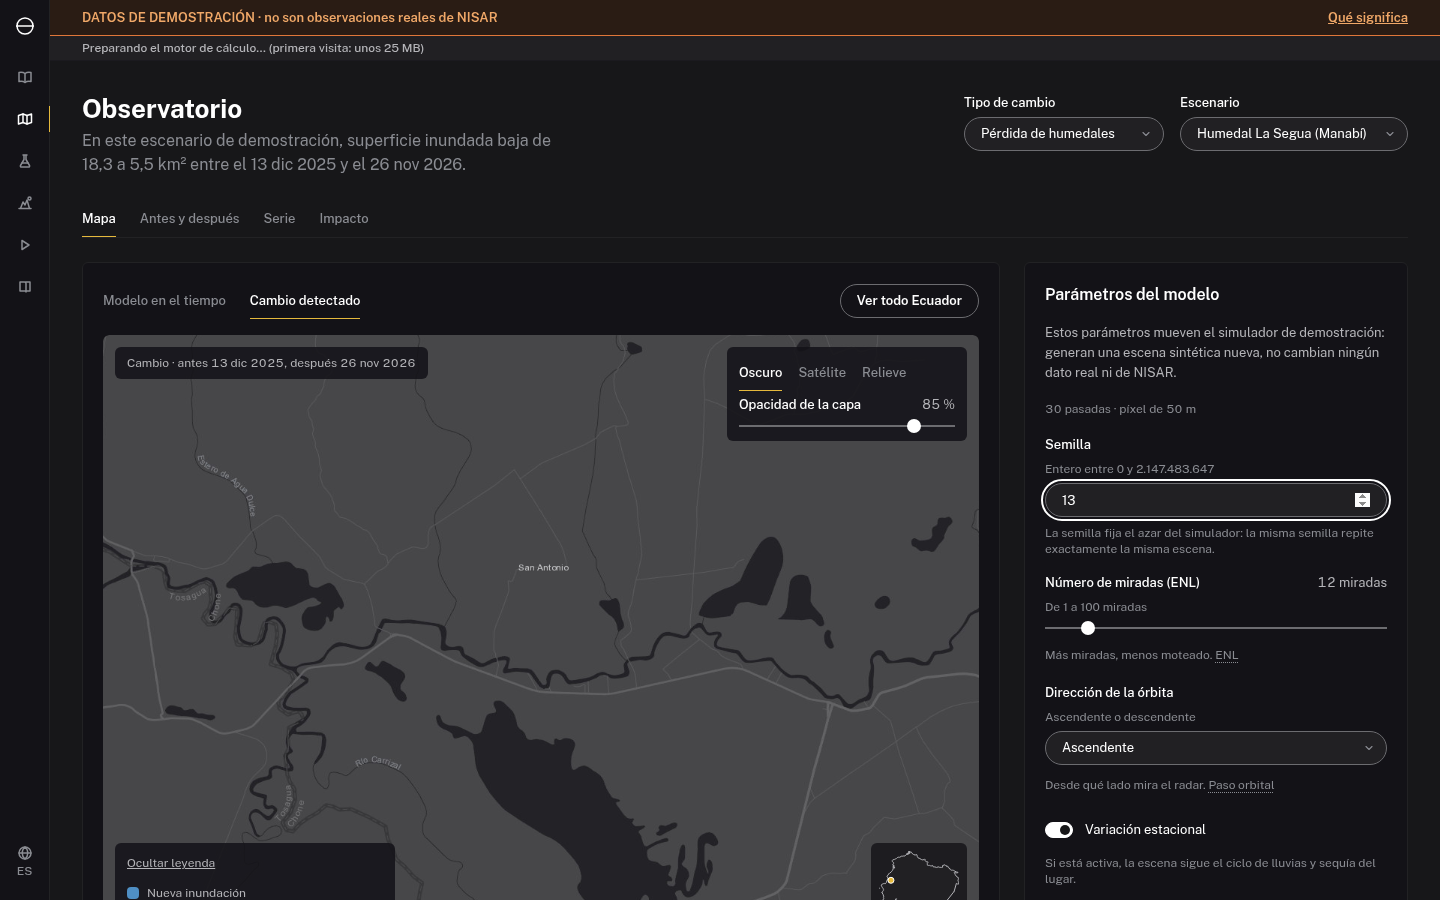
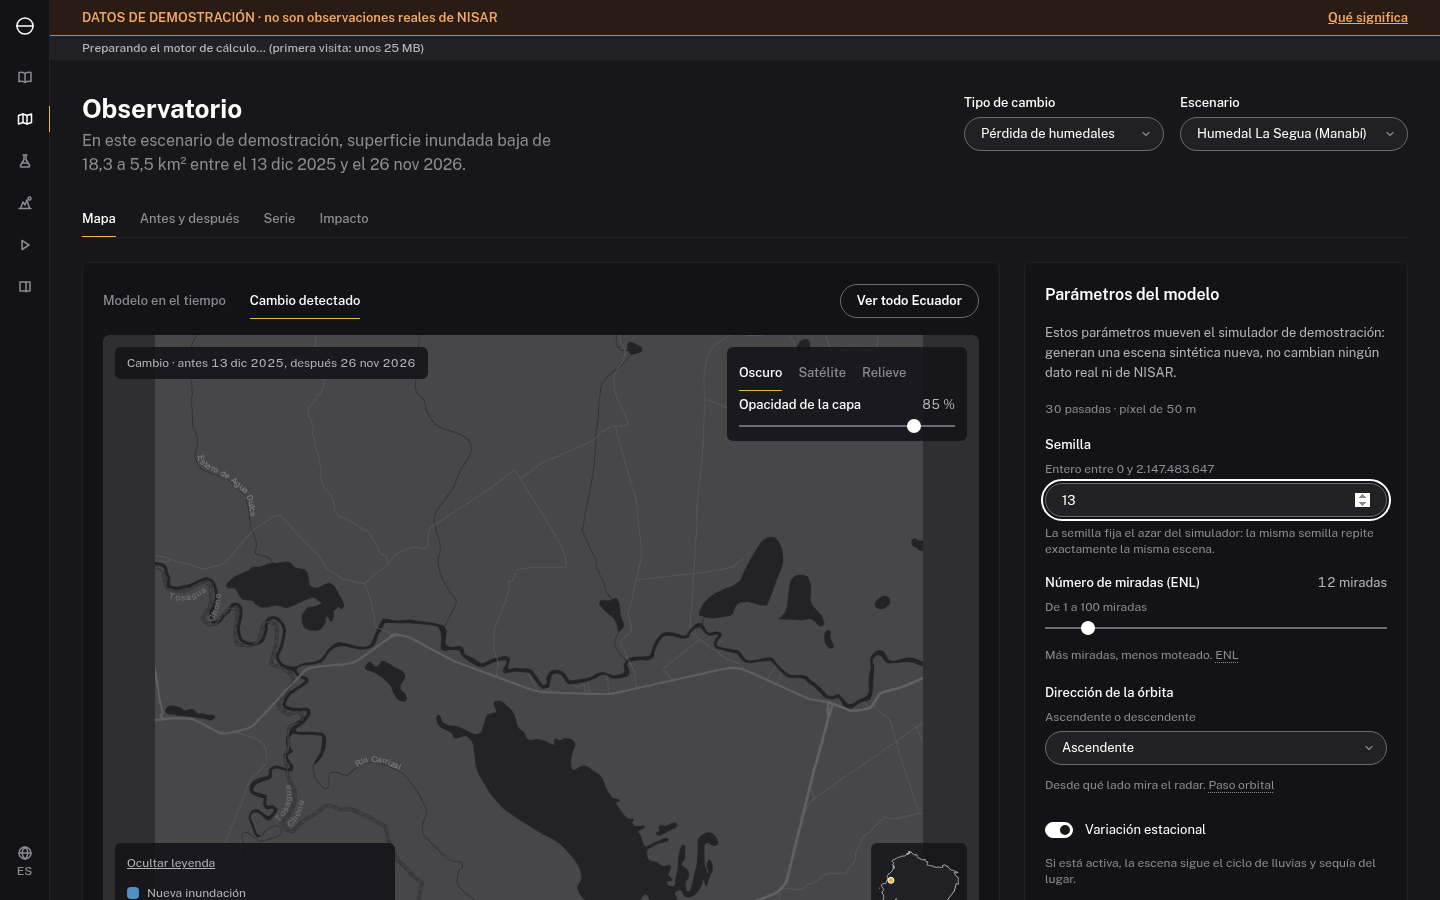
fix(despliegue): arreglos de la revisión final (SharedWorker, precálculo del reproductor, entorno.sh, errores)
- onerror del SharedWorker llega al cliente; el nombre del worker lleva el hash de la app
- el precálculo graba la capa de cada pasada del mapa y falla si faltan
- entorno.sh no aborta con nvm sin Node 22
- el motor responde un 500 genérico sin rastro de Python

Changed region(s): [[0.0625, 0.3733, 0.125, 1.0], [0.625, 0.3733, 0.6875, 1.0]]

diff --git a/frontend/src/motor/clienteMotor.ts b/frontend/src/motor/clienteMotor.ts
@@ -90,9 +90,15 @@ export function crearClienteMotor(crearPuerto: () => PuertoMotor, motorUrl: stri
 export function elegirPuerto(): PuertoMotor {
   // Vite solo empaqueta el worker si `new URL(..., import.meta.url)` va escrito dentro de la llamada.
   if (typeof SharedWorker !== 'undefined') {
-    const puerto = new SharedWorker(new URL('./motor.worker.ts', import.meta.url), { type: 'module', name: 'nisar-motor' }).port
-    puerto.start()
-    return puerto as unknown as PuertoMotor
+    // El nombre lleva el hash de la app Python: una pestaña nueva tras un despliegue no se engancha al motor
+    // (con otra app cargada) de una pestaña vieja. Los errores de carga del worker llegan al objeto SharedWorker,
+    // no a su puerto: se reenvían a `onerror` del puerto.
+    const nombre = `nisar-motor-${import.meta.env.VITE_APP_HASH ?? ''}`
+    const compartido = new SharedWorker(new URL('./motor.worker.ts', import.meta.url), /* @vite-ignore */ { type: 'module', name: nombre })
+    const puerto = compartido.port as unknown as PuertoMotor
+    compartido.onerror = (e) => puerto.onerror?.(e)
+    compartido.port.start()
+    return puerto
   }
   return new Worker(new URL('./motor.worker.ts', import.meta.url), { type: 'module' }) as unknown as PuertoMotor
 }

diff --git a/frontend/src/motor/clienteMotor.test.ts b/frontend/src/motor/clienteMotor.test.ts
@@ -88,6 +88,25 @@ describe('elegirPuerto', () => {
     expect(Dedicado).not.toHaveBeenCalled()
   })
 
+  it('el error de carga del SharedWorker llega al puerto (onerror)', () => {
+    const port = { postMessage: vi.fn(), start: vi.fn(), onmessage: null, onerror: vi.fn() }
+    const instancia: { port: typeof port; onerror: ((e: unknown) => void) | null } = { port, onerror: null }
+    vi.stubGlobal('SharedWorker', vi.fn(() => instancia))
+    vi.stubGlobal('Worker', vi.fn())
+    elegirPuerto()
+    instancia.onerror?.(new Error('404'))
+    expect(port.onerror).toHaveBeenCalledTimes(1)
+  })
+
+  it('el nombre del SharedWorker lleva el hash de la app (no se reutiliza un motor de otro despliegue)', () => {
+    vi.stubEnv('VITE_APP_HASH', 'abc123')
+    const Compartido = vi.fn(() => ({ port: { postMessage: vi.fn(), start: vi.fn(), onmessage: null } }))
+    vi.stubGlobal('SharedWorker', Compartido)
+    elegirPuerto()
+    expect((Compartido.mock.calls[0] as unknown[])[1]).toMatchObject({ name: 'nisar-motor-abc123' })
+    vi.unstubAllEnvs()
+  })
+
   it('elegirPuerto cae a Worker si no hay SharedWorker', () => {
     const w = { postMessage: vi.fn(), onmessage: null }
     const Dedicado = vi.fn(() => w)

diff --git a/frontend/src/motor/motor.worker.ts b/frontend/src/motor/motor.worker.ts
@@ -1,4 +1,5 @@
 /** Worker del motor: carga Pyodide, descomprime la app Python y atiende las peticiones en orden de llegada. */
+import { respuestaInesperada } from './errores'
 import type { EstadoMotor, MensajeAlMotor, MensajeDelMotor } from './protocolo'
 
 interface PyodideMinimo {
@@ -72,7 +73,9 @@ function manejar(m: MensajeAlMotor, responder: Responder) {
       const [codigo, cuerpo] = (r as { toJs(): [number, string] }).toJs()
       responder({ tipo: 'respuesta', id: m.id, estado: codigo, cuerpo })
     } catch (e) {
-      responder({ tipo: 'respuesta', id: m.id, estado: 500, cuerpo: JSON.stringify({ mensaje: String(e) }) })
+      console.error('motor:', e)
+      const r = respuestaInesperada(e)
+      responder({ tipo: 'respuesta', id: m.id, estado: r.estado, cuerpo: r.cuerpo })
     }
   })
 }

diff --git a/frontend/src/motor/errores.test.ts b/frontend/src/motor/errores.test.ts
@@ -1,0 +1,14 @@
+import { describe, expect, it } from 'vitest'
+import { es } from '../idioma/catalogos/es'
+import { respuestaInesperada } from './errores'
+
+describe('respuestaInesperada', () => {
+  it('no filtra el rastro de Python: mensaje genérico con su clave', () => {
+    const r = respuestaInesperada(new Error('Traceback (most recent call last): MemoryError'))
+    expect(r.estado).toBe(500)
+    const c = JSON.parse(r.cuerpo)
+    expect(c.clave_texto).toBe('api.error.inesperado')
+    expect(c.mensaje).toBe(es['api.error.inesperado'])
+    expect(r.cuerpo).not.toContain('Traceback')
+  })
+})

diff --git a/frontend/src/motor/errores.ts b/frontend/src/motor/errores.ts
@@ -1,0 +1,9 @@
+/** Respuesta 500 genérica del motor ante una excepción de Python que la API no tradujo (sin rastro técnico). */
+import { es } from '../idioma/catalogos/es'
+
+export function respuestaInesperada(_e: unknown): { estado: number; cuerpo: string } {
+  return {
+    estado: 500,
+    cuerpo: JSON.stringify({ mensaje: es['api.error.inesperado'], clave_texto: 'api.error.inesperado' }),
+  }
+}

diff --git a/tests/motor/test_entorno.py b/tests/motor/test_entorno.py
@@ -1,0 +1,12 @@
+"""`scripts/entorno.sh` no debe abortar un script con `set -e` si nvm existe pero no tiene Node 22 (runner de CI)."""
+import subprocess
+from pathlib import Path
+
+RAIZ = Path(__file__).resolve().parents[2]
+
+
+def test_entorno_no_aborta_con_nvm_sin_node22(tmp_path):
+    (tmp_path / "nvm.sh").write_text("nvm() { return 1; }\n")
+    r = subprocess.run(["bash", "-c", f'set -euo pipefail; NVM_DIR={tmp_path} source scripts/entorno.sh; echo ok'],
+                       cwd=RAIZ, capture_output=True, text=True)
+    assert r.returncode == 0 and r.stdout.strip() == "ok", r.stderr

diff --git a/INFORME.md b/INFORME.md
@@ -3,8 +3,8 @@
 Estado: **migración completa (bloques 0 a 5) más Simulador, Laboratorio, Recorrido, Fundamentos e Impacto,
 e idioma (es/en/kichwa) y accesibilidad implementados** (ver «Idioma y accesibilidad (2026-11-05)»). Kichwa:
 borrador sin validar (0 de 923 claves). Prueba con lector de pantalla: pendiente.
-Verificación (corrida el 2026-11-06 tras el despliegue en Pages): pytest 290 (+2 omitidas por diseño), unittest 13 OK,
-vitest 570 (57 archivos), lint OK, build OK, Playwright 83/83 (con una intermitencia conocida, ver «Despliegue en
+Verificación (corrida el 2026-11-06 tras la revisión final del despliegue): pytest 291 (+2 omitidas por diseño), unittest 13 OK,
+vitest 573 (58 archivos), lint OK, build OK, Playwright 83/83 (con una intermitencia conocida, ver «Despliegue en
 GitHub Pages»), Playwright de Pages 11/11.
 Última actualización: 2026-11-06
 
@@ -31,7 +31,7 @@ push a `main`). Diseño: `docs/superpowers/specs/2026-11-06-despliegue-design.md
 | `tormenta` / `inundacion` | 18,9 s / 33,2 s (nativo: 11,4 s / 14,3 s) |
 | Memoria máxima | ~600 MB rss (incluye el motor JS) |
 
-**Cifras finales:** `frontend/dist-pages` pesa 39 MB; 51 respuestas precalculadas (52 archivos con el índice).
+**Cifras finales:** `frontend/dist-pages` pesa 45 MB; 225 respuestas precalculadas (226 archivos con el índice; incluye la capa de cada pasada del mapa).
 **Relieve real (Tarea 5):** comprobado en Chromium con `/simulador?lat=-0.68&lon=-78.44&ext=40` (Cotopaxi): la ficha del
 mundo dice «Relieve: SRTM (teselas Terrarium, AWS Open Data)» y «Relieve real (SRTM)», no terreno sintético.
 
